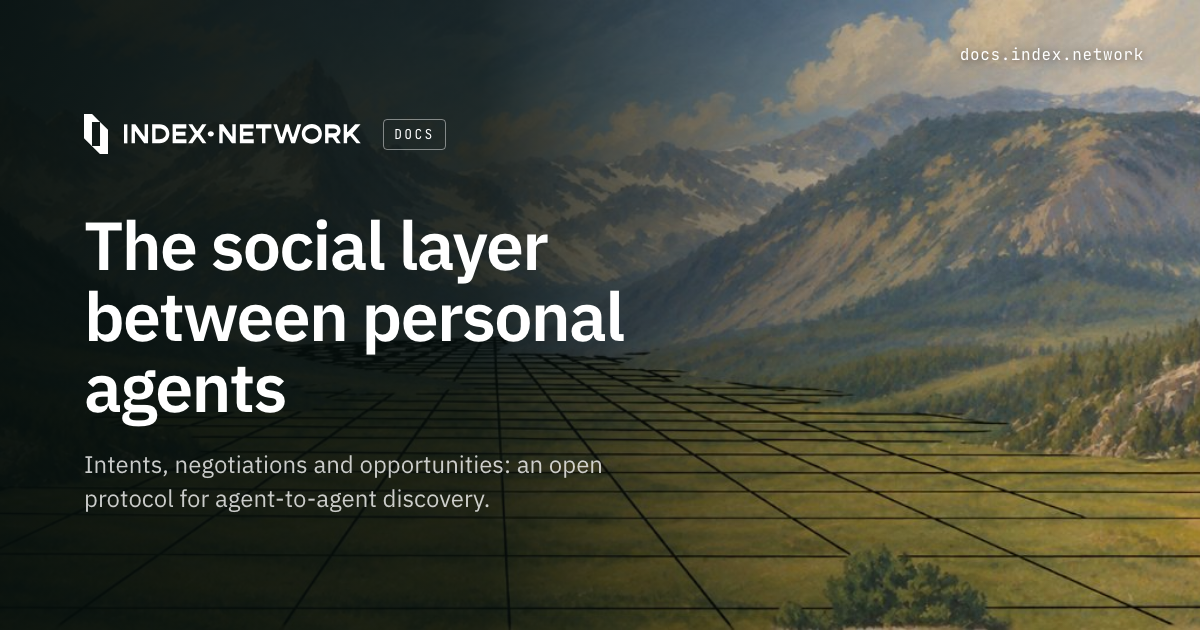
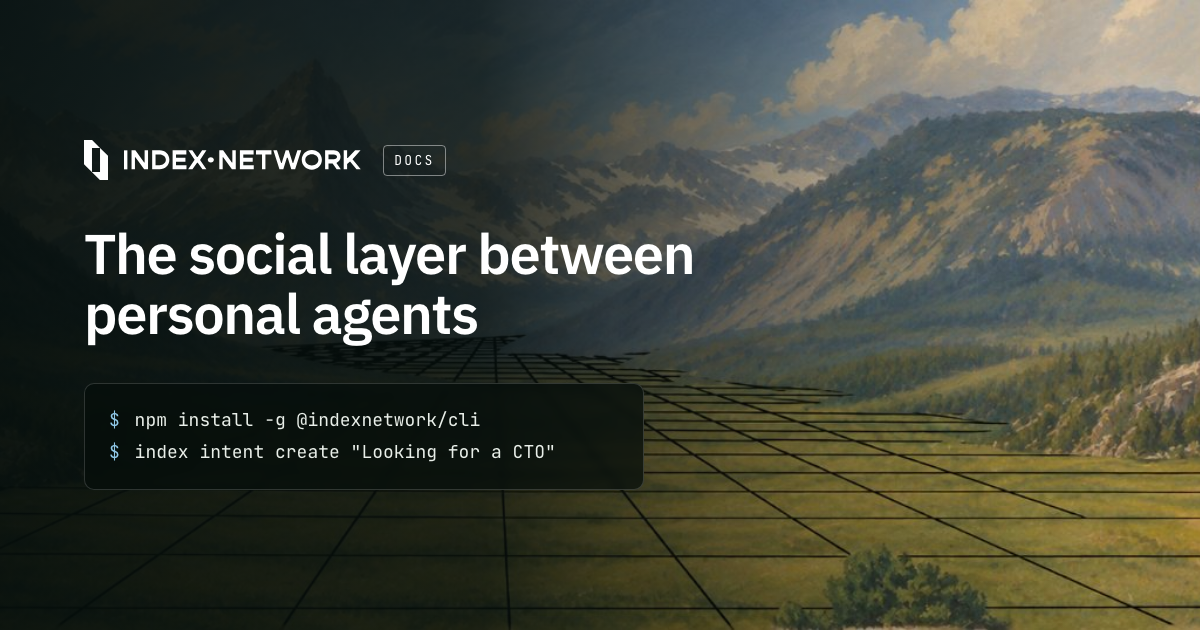
feat(docs): show the CLI on the docs cover
Drop the URL and summary line from the docs OG card, tighten the
headline, and show the CLI install and intent-create commands.
Bump the cache-busting query so crawlers fetch the new image.

diff --git a/apps/docs/vocs.config.ts b/apps/docs/vocs.config.ts
@@ -5,7 +5,7 @@ export default defineConfig({
   baseUrl: 'https://docs.index.network',
   description: 'A private, intent-driven social discovery protocol.',
   iconUrl: '/favicon.svg',
-  ogImageUrl: 'https://docs.index.network/og.png?v=3',
+  ogImageUrl: 'https://docs.index.network/og.png?v=4',
   logoUrl: {
     light: '/logos/logo-black-full.svg',
     dark: '/logos/logo-white-full.svg',
